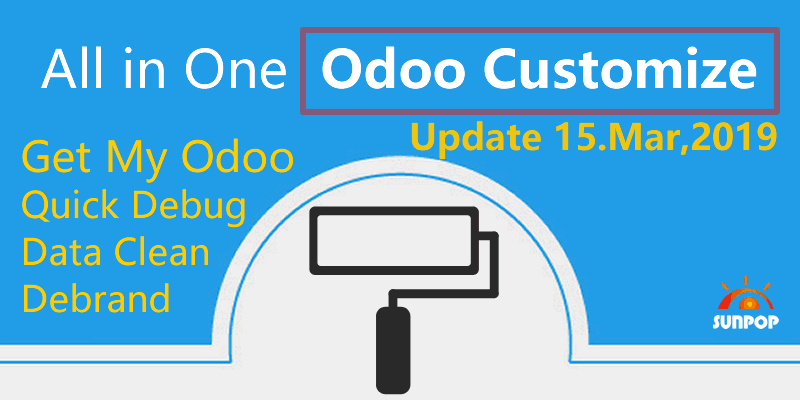
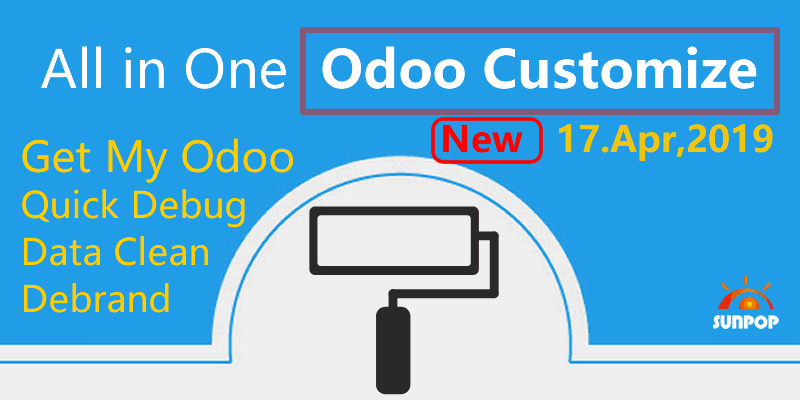
update odoo customize

Changed region(s): [[0.5, 0.27, 0.9688, 0.42]]

diff --git a/app_odoo_customize/static/description/index.html b/app_odoo_customize/static/description/index.html
@@ -6,6 +6,8 @@
                 <p>This moduld allows user to quickly customize and debranding Odoo. Quick debug, Language Switcher,
                     Online Documentation Access,Quick Data Clear. </p>
                 <p>Support Odoo 12, 11, 10, 9. Including communicate and enterprise version. </p>
+                <h3>Update: v12.19.04.17</h3>
+                <p>Add Customize Odoo Native Module(eg. Enterprise) Url</p>
                 <h3>Update: v12.19.3.15</h3>
                 <p>Add reset or clear website blog data</p>
                 <h3>Update: v12.19.3.12</h3>
@@ -161,6 +163,17 @@
     <div class="oe_row oe_spaced" style="max-width: 95%;">
         <div class="oe_demo"
              style="margin: 20px auto; padding: 0 15px 0 0; border:none; border-top:solid 1px #dedede; width: 96%;">
+            <h2 class='oe_mt32'>Customize Module Url(eg. Enterprise).</h2>
+        </div>
+        <div class="oe_demo oe_screenshot">
+            <img src="set21.jpg" style="border:1px solid black"/>
+            <br/>
+        </div>
+    </div>
+
+    <div class="oe_row oe_spaced" style="max-width: 95%;">
+        <div class="oe_demo"
+             style="margin: 20px auto; padding: 0 15px 0 0; border:none; border-top:solid 1px #dedede; width: 96%;">
             <h2 class='oe_mt32'>Quick Delete test Data.</h2>
             <p>You can quickly delete all the test data in Apps: Sales/POS/Purchase/MRP/Inventory/Accounting/Message/Workflow etc.</p>
         </div>
@@ -169,6 +182,7 @@
             <br/>
         </div>
     </div>
+
 </section>
 
 <section class="oe_container oe_dark">

diff --git a/app_odoo_customize/models/res_config_settings.py b/app_odoo_customize/models/res_config_settings.py
@@ -31,6 +31,7 @@ class ResConfigSettings(models.TransientModel):
     app_support_url = fields.Char('Support Url')
     app_account_title = fields.Char('My Odoo.com Account Title')
     app_account_url = fields.Char('My Odoo.com Account Url')
+    app_enterprise_url = fields.Char('Customize Module Url(eg. Enterprise)')
 
     @api.model
     def get_values(self):
@@ -56,6 +57,7 @@ class ResConfigSettings(models.TransientModel):
         app_support_url = ir_config.get_param('app_support_url', default='https://www.sunpop.cn/trial/')
         app_account_title = ir_config.get_param('app_account_title', default='My Online Account')
         app_account_url = ir_config.get_param('app_account_url', default='https://www.sunpop.cn/my-account/')
+        app_enterprise_url = ir_config.get_param('app_enterprise_url', default='https://www.sunpop.cn')
         res.update(
             app_system_name=app_system_name,
             app_show_lang=app_show_lang,
@@ -73,7 +75,8 @@ class ResConfigSettings(models.TransientModel):
             app_documentation_dev_url=app_documentation_dev_url,
             app_support_url=app_support_url,
             app_account_title=app_account_title,
-            app_account_url=app_account_url
+            app_account_url=app_account_url,
+            app_enterprise_url=app_enterprise_url
         )
         return res
 
@@ -100,8 +103,15 @@ class ResConfigSettings(models.TransientModel):
         ir_config.set_param("app_support_url", self.app_support_url or "https://www.sunpop.cn/trial/")
         ir_config.set_param("app_account_title", self.app_account_title or "My Online Account")
         ir_config.set_param("app_account_url", self.app_account_url or "https://www.sunpop.cn/my-account/")
+        ir_config.set_param("app_enterprise_url", self.app_enterprise_url or "https://www.sunpop.cn")
 
-    @api.multi
+    def set_module_url(self):
+        sql = "UPDATE ir_module_module SET website = '%s' WHERE license like '%s' and website <> ''" % (self.app_enterprise_url, 'OEEL%')
+        try:
+            self._cr.execute(sql)
+        except Exception as e:
+            pass
+
     def remove_sales(self):
         to_removes = [
             # 清除销售单据

diff --git a/app_odoo_customize/__manifest__.py b/app_odoo_customize/__manifest__.py
@@ -23,7 +23,7 @@
 
 {
     'name': 'Odoo Customize(Debranding, My Odoo)',
-    'version': '12.19.3.15',
+    'version': '12.19.04.17',
     'author': 'Sunpop.cn',
     'category': 'Productivity',
     'website': 'https://www.sunpop.cn',
@@ -64,19 +64,21 @@
     21. Can clear and reset account chart. Be cautious
     22. Update online manual and developer document to odoo12
     23. Add reset or clear website blog data
+    24. Customize Odoo Native Module(eg. Enterprise) Url
     
     This module can help to white label the Odoo.
     Also helpful for training and support for your odoo end-user.
     The user can get the help document just by one click.
     """,
     'images': ['static/description/banner.gif'],
-    'depends': ['base', 'web', 'mail'],
+    'depends': ['base', 'web', 'mail', 'web_settings_dashboard'],
     'data': [
         'views/app_odoo_customize_view.xml',
         'views/app_theme_config_settings_view.xml',
         'views/ir_model_view.xml',
         # data
         'data/ir_config_parameter.xml',
+        'data/ir_module_module.xml',
         'data/res_company_data.xml',
         'data/res_groups.xml',
         'security/ir.model.access.csv',

diff --git a/app_odoo_customize/hooks.py b/app_odoo_customize/hooks.py
@@ -16,8 +16,12 @@
 # description:
 
 def pre_init_hook(cr):
-    pass
-    # cr.execute("")
+    try:
+        # 更新企业版指向
+        sql = "UPDATE ir_module_module SET website = '%s' WHERE license like '%s' and website <> ''" % ('https://www.sunpop.cn', 'OEEL%')
+        cr.execute(sql)
+    except Exception as e:
+        pass
 
 def post_init_hook(cr, registry):
     pass

diff --git a/app_odoo_customize/readme.md b/app_odoo_customize/readme.md
@@ -26,6 +26,7 @@ You can config odoo, make it look like your own platform.
 21. Can clear and reset account chart. Be cautious
 22. Update online manual and developer document to odoo12
 23. Add reset or clear website blog data
+24. Customize Odoo Native Module(eg. Enterprise) Url
 
 This module can help to white label the Odoo.
 Also helpful for training and support for your odoo end-user.
@@ -61,17 +62,25 @@ https://www.sunpop.cn
 21. 清除并重置会计科目表
 22. 全新升级将odoo12用户及开发手册导航至国内网站，或者自己定义的网站
 23. 增加清除网站数据功能
+24. 自定义 odoo 原生模块跳转的url(比如企业版模块)
 
 使用方法：将解压后的 app_odoo_customize 放到 odoo的 addons目录下，激活开发者模式，应用-->更新应用列表，
 找到 "App odoo Customize"模块，安装即可。
 
 
 ## 其它技术资源：
-#### odoo10-windows64位高性能最新绿色版下载及制作方法-提速50%
-https://www.sunpop.cn/odoo10_fast_x64_download/
-#### Odoo10离线中文用户手册下载
-https://www.sunpop.cn/odoo10_user_manual_document_offline/
-#### Odoo10离线开发手册下载-含python教程，jquery参考，Jinja2模板，PostgresSQL参考（odoo开发必备）
-https://www.sunpop.cn/odoo10_developer_document_offline/
+# Odoo12在线用户手册（长期更新）
+# https://www.sunpop.cn/documentation/user/12.0/en/index.html
 
+# Odoo12在线开发者手册（长期更新）
+# https://www.sunpop.cn/documentation/12.0/index.html
+
+# Odoo10在线中文用户手册（长期更新）
+# https://www.sunpop.cn/documentation/user/10.0/zh_CN/index.html
+
+# Odoo10离线中文用户手册下载
+# https://www.sunpop.cn/odoo10_user_manual_document_offline/
+# Odoo10离线开发手册下载-含python教程，jquery参考，Jinja2模板，PostgresSQL参考（odoo开发必备）
+# https://www.sunpop.cn/odoo10_developer_document_offline/
+# description:
 
